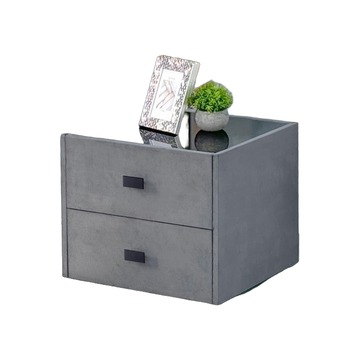
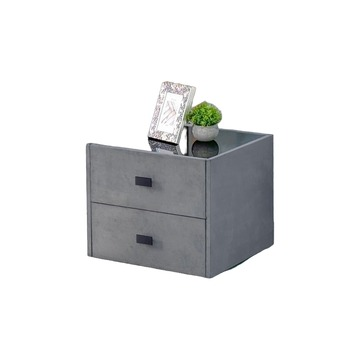
Обновление каталога

Changed region(s): [[0.1528, 0.1528, 0.8556, 0.8556], [0.3361, 0.4889, 0.4278, 0.55]]

diff --git a/index.html b/index.html
@@ -466,7 +466,7 @@ img { display: block; max-width: 100%; }
 
     function buildHighlights() {
         var cats = uniq(products.map(function (p) { return p.category; }));
-        var HL_PHOTO = {"Диваны": "brand/hl-divany.jpg", "Кровати": "brand/hl-krovati.jpg", "Матрасы": "brand/hl-matrasy.jpg", "Кресла": "brand/hl-kresla.jpg", "Столы": "brand/hl-stoly.jpg", "Стулья": "brand/hl-stulya.jpg", "Малые формы": "brand/hl-malye.jpg", "Тумбы": "brand/hl-tumby.jpg", "Пуфы": "brand/hl-pufy.jpg"};  // круги: tools/hl_circles.py (выбор Рината 23.10, без теней, модель целиком)
+        var HL_PHOTO = {"Диваны": "brand/hl-divany.jpg?v=a207bafe", "Кровати": "brand/hl-krovati.jpg?v=1caef03e", "Матрасы": "brand/hl-matrasy.jpg?v=cca1bbd8", "Кресла": "brand/hl-kresla.jpg?v=ae007c23", "Столы": "brand/hl-stoly.jpg?v=55e1fba3", "Стулья": "brand/hl-stulya.jpg?v=e51ddaab", "Малые формы": "brand/hl-malye.jpg?v=d4b4d17b", "Тумбы": "brand/hl-tumby.jpg?v=50da181b", "Пуфы": "brand/hl-pufy.jpg?v=4454d18a"};  // круги: tools/hl_circles.py (выбор Рината 23.10, без теней, модель целиком)
         $("highlights").innerHTML = cats.map(function (c) {
             var inCat = products.filter(function (x) { return x.category === c; }), photo = "";
             inCat.some(function (x) { return x.photos.some(function (f) { return f.indexOf("/white/") > -1 && (photo = f); }); });
